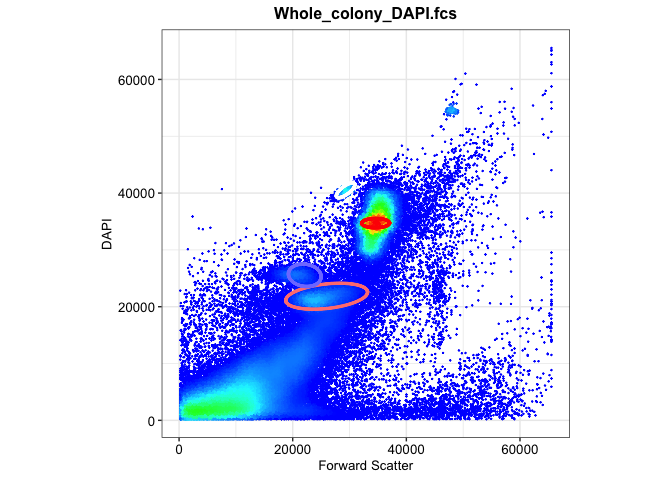
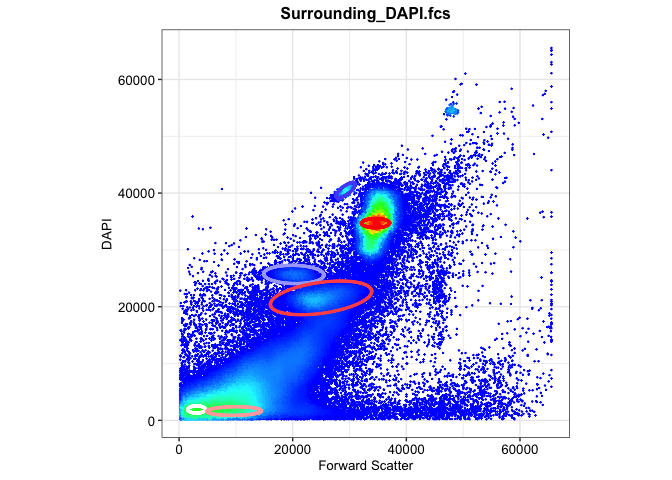
add file

diff --git a/workflow/02a-flowEMMi-for-Z-project.md b/workflow/02a-flowEMMi-for-Z-project.md
@@ -1,6 +1,6 @@
 02a-flowEMMi for-Z-project
 ================
-Compiled at 2023-10-10 20:45:08 UTC
+Compiled at 2023-10-11 08:00:09 UTC
 
 ``` r
 here::i_am(paste0(params$name, ".Rmd"), uuid = "11675b32-9913-442e-9b4a-03cdc39afb65")
@@ -144,11 +144,10 @@ gating_DAPI[[5]] <- gating_sur$best
 ### Gating plots on DAPI
 
 ``` r
-location <- c("Inner_zone","Middle_zone","Outer_zone","Whole_colony","Surrounding")
 gating_DAPI_plot <- list()
 
 for (i in 1:5){
-  data_name <- paste0(location[i],"_DAPI.fcs")
+  data_name <- names(DAPI)[i]
   data <- DAPI[[i]]
   plots <- plotDensityAndEllipses(fcsData = data, ch1="PMT.1", ch2="PMT.9", alpha=0.9,
                             logScale = F, results = gating_DAPI[[i]],
@@ -324,10 +323,12 @@ for (i in 1:5){
     ## 
     ## |Cluster | Cells|     Area|Coordinate          |
     ## |:-------|-----:|--------:|:-------------------|
-    ## |1       |  4270| 49000087|(25975.69,21847.05) |
-    ## |2       |  8499|  6212976|(34589.90,34715.69) |
-    ## |3       |  1256|  4459962|(29311.44,40500.45) |
-    ## |4       |  1239| 17707769|(22125.31,25532.17) |
+    ## |1       |  1208|  3042032|(3077.87,1911.78)   |
+    ## |2       |  1792| 26755996|(20203.14,25677.31) |
+    ## |3       |  8489|  6195830|(34582.00,34716.91) |
+    ## |4       |  1272|  4666563|(29308.43,40497.37) |
+    ## |5       |  5328| 76642068|(24986.19,21556.94) |
+    ## |6       |  3662| 11432862|(9702.70,1635.15)   |
 
 ![](02a-flowEMMi-for-Z-project_files/figure-gfm/unnamed-chunk-2-4.png)<!-- -->
 
@@ -337,12 +338,10 @@ for (i in 1:5){
     ## 
     ## |Cluster | Cells|     Area|Coordinate          |
     ## |:-------|-----:|--------:|:-------------------|
-    ## |1       |    15|  3042032|(3077.87,1911.78)   |
-    ## |2       |    31| 26755996|(20203.14,25677.31) |
-    ## |3       |  5105|  6195830|(34582.00,34716.91) |
-    ## |4       |   259|  4666563|(29308.43,40497.37) |
-    ## |5       |   177| 76642068|(24986.19,21556.94) |
-    ## |6       |   103| 11432862|(9702.70,1635.15)   |
+    ## |1       |   125| 49000087|(25975.69,21847.05) |
+    ## |2       |  5142|  6212976|(34589.90,34715.69) |
+    ## |3       |   257|  4459962|(29311.44,40500.45) |
+    ## |4       |    32| 17707769|(22125.31,25532.17) |
 
 ![](02a-flowEMMi-for-Z-project_files/figure-gfm/unnamed-chunk-2-5.png)<!-- -->
 
@@ -405,27 +404,34 @@ for (i in 1:5){
 }
 ```
 
+After computing the sum of cells’ number and the ellipse volume at
+different confidence intervals, we can now plot the ROC curves to
+compare the trade-off tendency for different locations.
+
 ``` r
 # plot
 
 plot.points <- data.frame()
+plot.scale.points <- data.frame()
 
 for (i in 1:5){
   data <- roc.result[[i]]
   data[1,] <- c(0,0)
   
-  for (n in 1:nrow(data)){
-    data[n,1] <- data[n,1]/data[nrow(data),1]
-    data[n,2] <- data[n,2]/data[nrow(data),2]
-  }
-  
   data$location <- substr(names(DAPI)[i],1,nchar(names(DAPI)[i])-9) %>% as.factor()
   plot.points <- rbind(plot.points,data)
+  
+  plot.scale.points <- plot.points
+  
+  for (j in 1:nrow(plot.points)){
+    plot.scale.points[j,1]<- plot.scale.points[j,1]/max(plot.scale.points[,1])
+    plot.scale.points[j,2]<- plot.scale.points[j,2]/max(plot.scale.points[,2])
+    }
 }
 
 print(ggplot(plot.points, aes(x = volume, y = cell, color = location)) +
     geom_step(size = 1) +
-    labs(x = "volume", y = "cell", title = "DAPI ROC-curve") +
+    labs(x = "volume", y = "cell", title = "DAPI ROC-curve", subtitle = "Without scaling") +
     theme_minimal())
 ```
 
@@ -436,6 +442,15 @@ print(ggplot(plot.points, aes(x = volume, y = cell, color = location)) +
     ## generated.
 
 ![](02a-flowEMMi-for-Z-project_files/figure-gfm/roc-plot-1.png)<!-- -->
+
+``` r
+print(ggplot(plot.scale.points, aes(x = volume, y = cell, color = location)) +
+    geom_step(size = 1) +
+    labs(x = "volume", y = "cell", title = "DAPI ROC-curve", subtitle = "Scaled by max number over all locations") +
+    theme_minimal())
+```
+
+![](02a-flowEMMi-for-Z-project_files/figure-gfm/roc-plot-2.png)<!-- -->
 
 ## Files written
 
